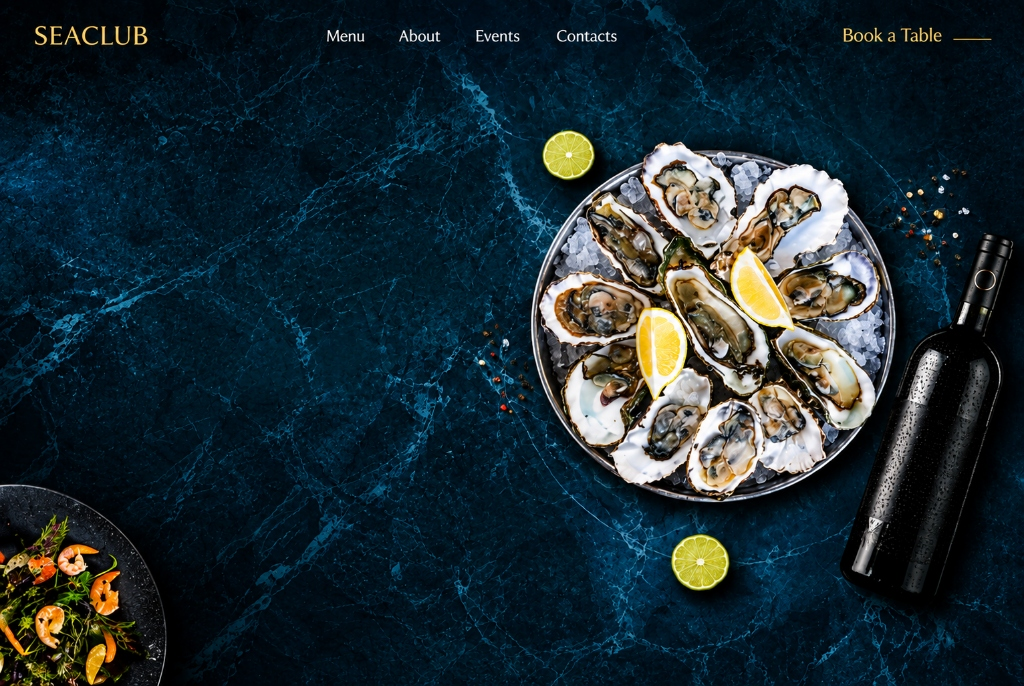
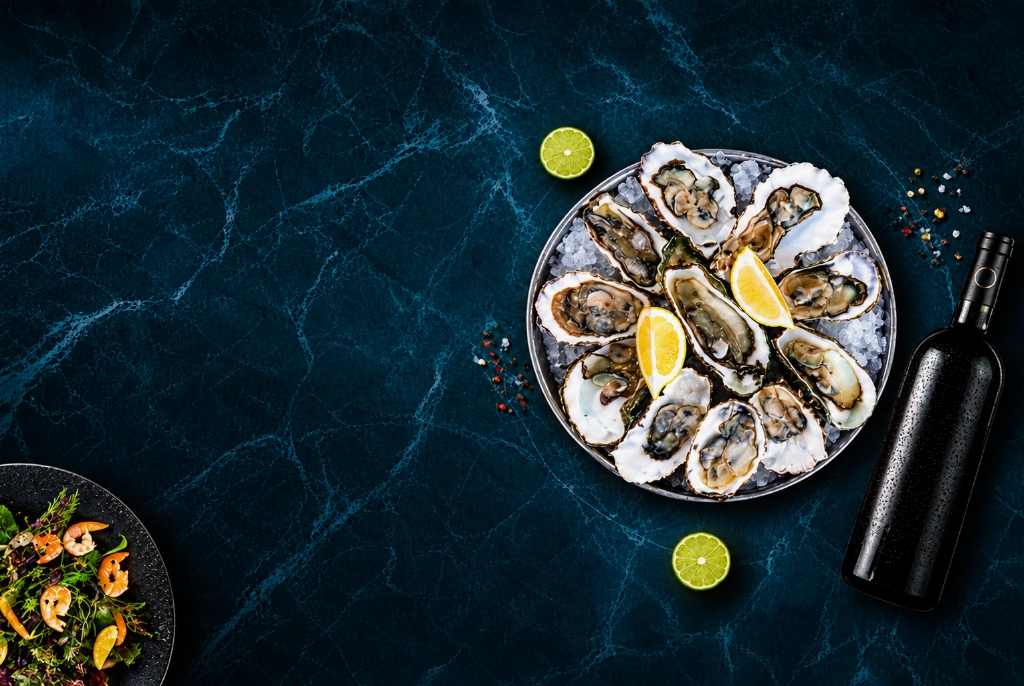
Adopt pristine background without baked text and implement ultra-crisp transparent navbar

diff --git a/src/components/Hero.jsx b/src/components/Hero.jsx
@@ -26,9 +26,9 @@ export default function Hero({
 
   return (
     <section className="relative w-full bg-[#050e17] overflow-hidden select-none">
-      {/* Container maintaining the exact 1024:686 aspect ratio of the user's background image */}
+      {/* Container maintaining the exact 1024:686 aspect ratio of the clean background image */}
       <div className="relative w-full max-w-[1536px] mx-auto aspect-[1024/686] bg-[#071421] shadow-2xl">
-        {/* High-Resolution User-Provided Clean Background Canvas */}
+        {/* High-Resolution User-Provided Pristine Clean Background Canvas */}
         <img
           src="/hero-bg.jpg"
           alt="SEACLUB Fish Restaurant & Fine Wine"
@@ -37,71 +37,62 @@ export default function Hero({
         />
 
         {/* ========================================================================= */}
-        {/* TOP NAVIGATION HOTSPOTS & HOVER OVERLAY                                  */}
+        {/* 1. ULTRA-CRISP TRANSPARENT TOP NAVIGATION BAR                             */}
         {/* ========================================================================= */}
+        <div className="absolute top-0 inset-x-0 h-[10%] px-[3%] sm:px-[4%] flex items-center justify-between z-30 pointer-events-auto bg-transparent">
+          {/* Brand Logo - "SEACLUB" in crisp luxury gold serif */}
+          <button
+            onClick={() => {
+              handleNav('home');
+              window.scrollTo({ top: 0, behavior: 'smooth' });
+            }}
+            className="font-serif tracking-[0.28em] text-sm sm:text-xl lg:text-2xl font-bold uppercase text-gold-300 hover:text-white transition duration-300 cursor-pointer drop-shadow-md"
+          >
+            SEACLUB
+          </button>
 
-        {/* 1. SEACLUB Logo (Top Left) */}
-        <button
-          onClick={() => {
-            handleNav('home');
-            window.scrollTo({ top: 0, behavior: 'smooth' });
-          }}
-          className="absolute left-[2.5%] top-[2.8%] w-[13.5%] h-[6.5%] rounded-lg hover:bg-gold-500/10 transition cursor-pointer z-30"
-          title="SEACLUB Home"
-          aria-label="SEACLUB Home"
-        />
+          {/* Center Navigation Links */}
+          <nav className="hidden sm:flex items-center space-x-6 sm:space-x-10 lg:space-x-14 text-xs sm:text-sm tracking-[0.2em] font-serif uppercase text-slate-100">
+            <button
+              onClick={() => handleNav('menu')}
+              className="hover:text-gold-300 transition duration-200 cursor-pointer drop-shadow-sm"
+            >
+              Menu
+            </button>
+            <button
+              onClick={() => handleNav('about')}
+              className="hover:text-gold-300 transition duration-200 cursor-pointer drop-shadow-sm"
+            >
+              About
+            </button>
+            <button
+              onClick={() => handleNav('events')}
+              className="hover:text-gold-300 transition duration-200 cursor-pointer drop-shadow-sm"
+            >
+              Events
+            </button>
+            <button
+              onClick={() => handleNav('contacts')}
+              className="hover:text-gold-300 transition duration-200 cursor-pointer drop-shadow-sm"
+            >
+              Contacts
+            </button>
+          </nav>
 
-        {/* 2. Top Nav: Menu */}
-        <button
-          onClick={() => handleNav('menu')}
-          className="absolute left-[30.5%] top-[2.8%] w-[6.5%] h-[6.5%] rounded-lg hover:bg-gold-500/15 transition cursor-pointer z-30"
-          title="Explore Restaurant Menu"
-          aria-label="Menu"
-        />
-
-        {/* 3. Top Nav: About */}
-        <button
-          onClick={() => handleNav('about')}
-          className="absolute left-[38.5%] top-[2.8%] w-[6%] h-[6.5%] rounded-lg hover:bg-gold-500/15 transition cursor-pointer z-30"
-          title="About SEACLUB Fish Restaurant"
-          aria-label="About"
-        />
-
-        {/* 4. Top Nav: Events */}
-        <button
-          onClick={() => handleNav('events')}
-          className="absolute left-[45.5%] top-[2.8%] w-[6.5%] h-[6.5%] rounded-lg hover:bg-gold-500/15 transition cursor-pointer z-30"
-          title="Gastronomic Events & Masterclasses"
-          aria-label="Events"
-        />
-
-        {/* 5. Top Nav: Contacts */}
-        <button
-          onClick={() => handleNav('contacts')}
-          className="absolute left-[53.5%] top-[2.8%] w-[7.8%] h-[6.5%] rounded-lg hover:bg-gold-500/15 transition cursor-pointer z-30"
-          title="Location & Valet Contacts"
-          aria-label="Contacts"
-        />
-
-        {/* 6. Top Nav: Book a Table (Top Right) */}
-        <button
-          onClick={onOpenBookTable}
-          className="absolute right-[2.5%] top-[2.5%] w-[15.5%] h-[7%] rounded-lg hover:bg-gold-500/20 transition cursor-pointer z-30 group"
-          title="Book a Table at SEACLUB"
-          aria-label="Book a Table"
-        >
-          <span className="sr-only">Book a Table</span>
-          <span className="opacity-0 group-hover:opacity-100 absolute -bottom-5 right-0 text-[10px] text-gold-300 font-serif tracking-widest uppercase transition whitespace-nowrap bg-black/85 px-2 py-0.5 rounded shadow">
-            Click to Reserve Table
-          </span>
-        </button>
+          {/* Right Action: "Book a Table —" in gold with trailing accent line */}
+          <button
+            onClick={onOpenBookTable}
+            className="flex items-center space-x-2 sm:space-x-3 text-gold-300 hover:text-white font-serif text-xs sm:text-sm tracking-[0.16em] uppercase transition duration-300 cursor-pointer group drop-shadow-md"
+          >
+            <span>Book a Table</span>
+            <span className="w-5 sm:w-8 h-0.5 bg-gold-400 group-hover:w-12 transition-all duration-300" />
+          </button>
+        </div>
 
         {/* ========================================================================= */}
-        {/* REAL HTML / CSS TYPOGRAPHY OVERLAY (NOT EMBEDDED IN IMAGE)                */}
+        {/* 2. HERO LEFT TEXT BLOCK: Real HTML / CSS Typography                       */}
         {/* ========================================================================= */}
-
-        {/* HERO LEFT TEXT BLOCK: Real HTML matching media_1790931516274.png */}
-        <div className="absolute left-[5.5%] top-[20%] max-w-[42%] z-20 flex flex-col items-start select-text text-left">
+        <div className="absolute left-[5.5%] top-[19%] max-w-[42%] z-20 flex flex-col items-start select-text text-left">
           {/* seafood + wine */}
           <span className="font-serif italic text-gold-300 text-sm sm:text-2xl lg:text-3xl tracking-wide mb-1 sm:mb-2 block drop-shadow-md">
             seafood + wine
@@ -126,7 +117,9 @@ export default function Hero({
           </button>
         </div>
 
-        {/* DRESSED OYSTERS TAG: Real HTML matching media_1790931549564.png */}
+        {/* ========================================================================= */}
+        {/* 3. DRESSED OYSTERS TAG: Real HTML Typography                              */}
+        {/* ========================================================================= */}
         <div
           onClick={() => scrollToSection('dressed-oysters')}
           className="absolute left-[47%] top-[66%] z-20 cursor-pointer group text-left select-text"
@@ -148,7 +141,9 @@ export default function Hero({
           title="Dressed Fine de Claire Oysters (Click to View Section)"
         />
 
-        {/* TIGNANELLO TAG: Real HTML matching media_1790931563676.png */}
+        {/* ========================================================================= */}
+        {/* 4. TIGNANELLO TAG: Real HTML Typography                                   */}
+        {/* ========================================================================= */}
         <div
           onClick={() => scrollToSection('tignanello')}
           className="absolute left-[77%] top-[78%] z-20 cursor-pointer group text-left select-text"
@@ -170,7 +165,9 @@ export default function Hero({
           title="Tignanello 2019 (Click to View Section)"
         />
 
-        {/* SQUID INK PASTA TAG (Bottom Left) */}
+        {/* ========================================================================= */}
+        {/* 5. SQUID INK PASTA TAG (Bottom Left)                                      */}
+        {/* ========================================================================= */}
         <div
           onClick={() => onOpenDish('dish-7')}
           className="absolute left-[2%] bottom-[3%] z-20 cursor-pointer group text-left select-text"
